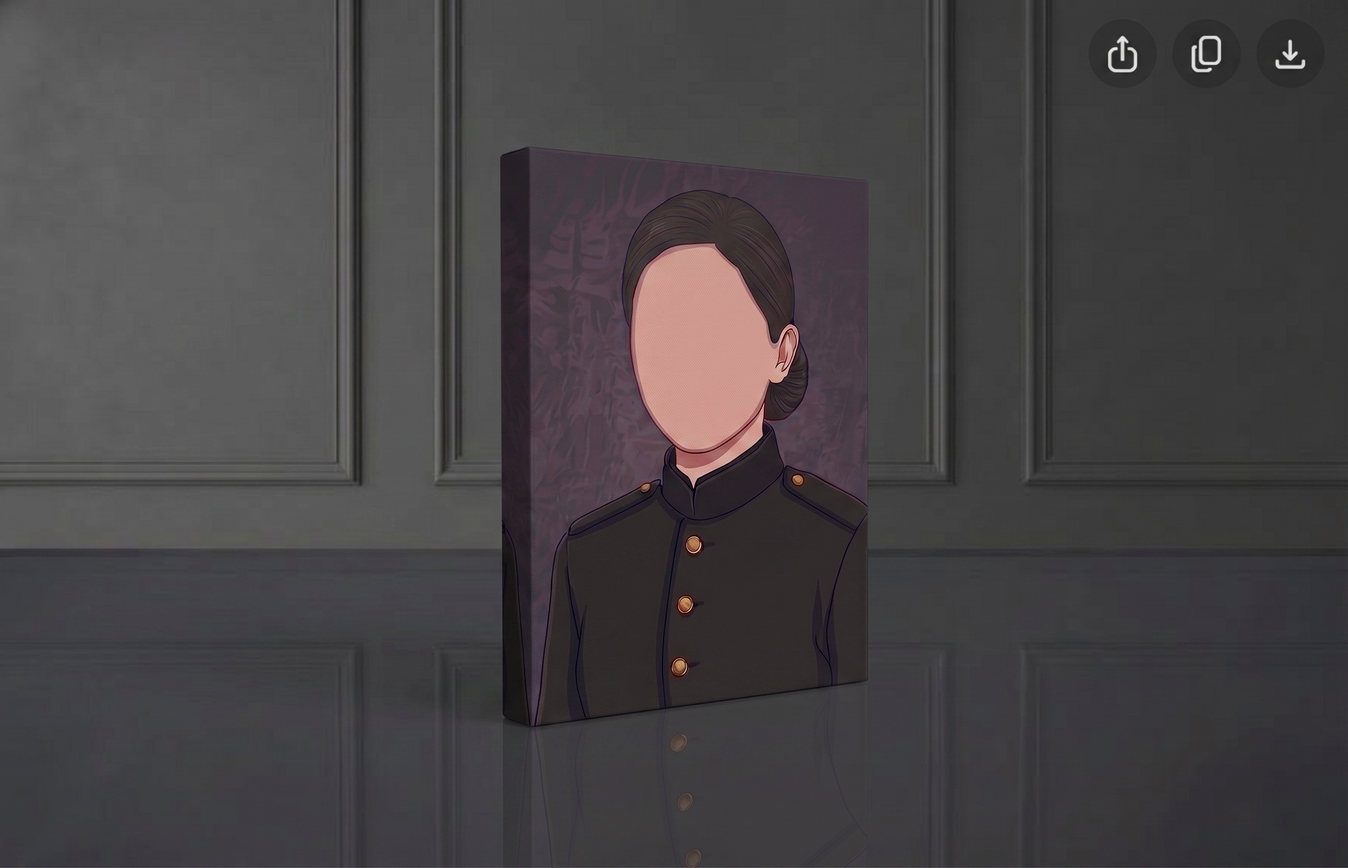
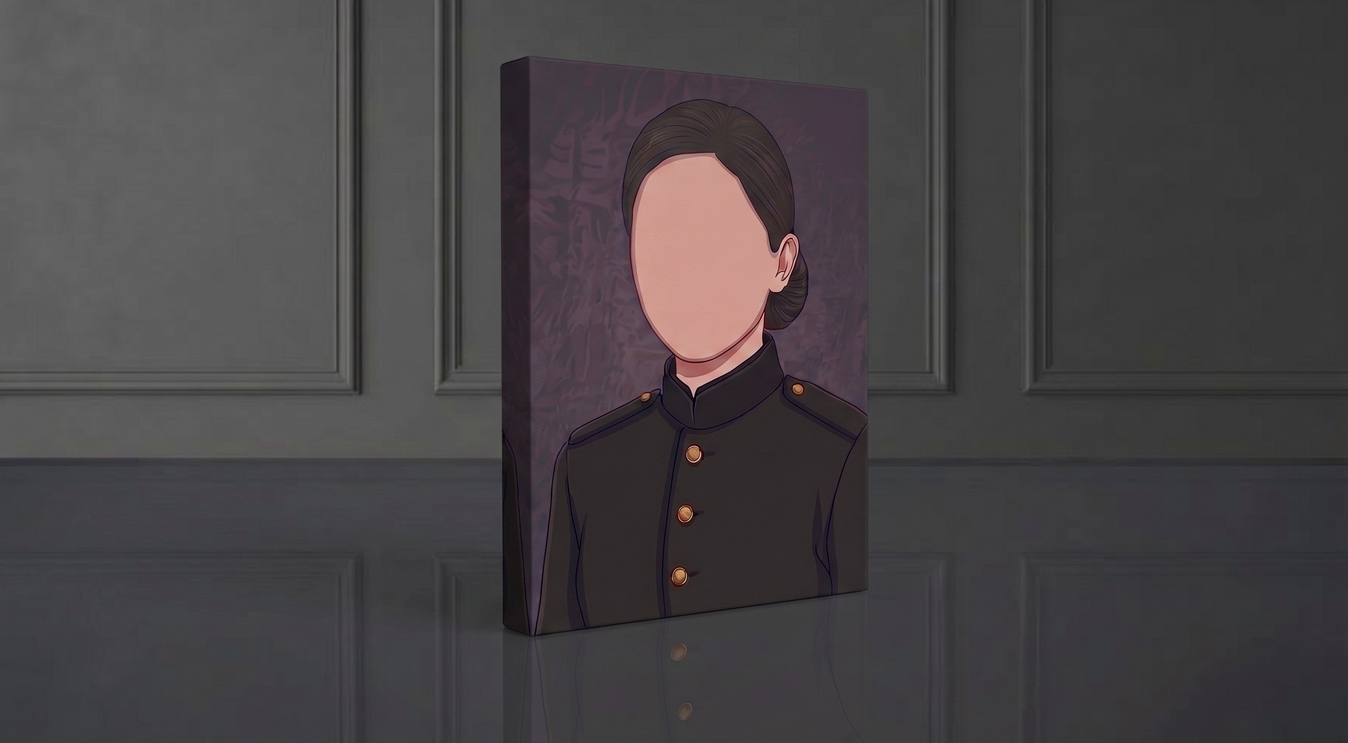
actualizacion 104

diff --git a/recuerdoEscolarSecundario.html b/recuerdoEscolarSecundario.html
@@ -1,5 +1,5 @@
 <!DOCTYPE html>
-<html lang="en">
+<html lang="es">
 <head>
     <meta charset="UTF-8">
     <meta http-equiv="X-UA-Compatible" content="IE=edge">
@@ -10,12 +10,10 @@
     <meta name="author" content="Gabriel Alvarez">
     <meta name="robots" content="index">
     <link href="https://unpkg.com/aos@2.3.1/dist/aos.css" rel="stylesheet">
-    <title>AquilaView</title>
-    <!-- GALERIA -->
+    <title>AquilaView - Recuerdo Escolar</title>
     <link rel="shortcut icon" href="favicon.ico">
-	<link rel="stylesheet" type="text/css" href="fonts/font-awesome-4.3.0/css/font-awesome.min.css" />
-	<link rel="stylesheet" type="text/css" href="css/index.css" />
-	<script src="JavasCript/modernizr-custom.js"></script>
+    <link rel="stylesheet" type="text/css" href="fonts/font-awesome-4.3.0/css/font-awesome.min.css" />
+    <script src="JavasCript/modernizr-custom.js"></script>
 </head>
 <body>
     <main class="main">
@@ -26,7 +24,7 @@
         
         <label for="check" class="icons">
             <span></span>
-            <span></span>	
+            <span></span>   
             <span></span>
         </label>
 
@@ -36,49 +34,36 @@
             <a href="#" style="--i:5">Contacto</a>
         </nav>
     </header>
-    <!-- PORTFOLIO -------------------------------------------------------------------------------------->
-    <div class="containerPortfolio">
-		<div class="presentacionPortfolio">
-			<div class="tituloPortfolio">
-				<h2>Recuerdo Escolar</h2>	
-				<h3>2026</h3>
-				<h4>Oferta Nivel Secundario. </h4>
-				<h4>Como fotógrafo freelance en Buenos Aires, me especializo en retratos y tomas aéreas con dron.</h4>
-				<a href="index.html">
-					<button class="portfolio-btn">
-						<b>Hablemos! </b>
-						<svg xmlns="http://www.w3.org/2000/svg" width="16" height="16" fill="currentColor" class="portfolio-btn-whatsapp" viewBox="0 0 16 16">
-							<path d="M13.601 2.326A7.85 7.85 0 0 0 7.994 0C3.627 0 .068 3.558.064 7.926c0 1.399.366 2.76 1.057 3.965L0 16l4.204-1.102a7.9 7.9 0 0 0 3.79.965h.004c4.368 0 7.926-3.558 7.93-7.93A7.9 7.9 0 0 0 13.6 2.326zM7.994 14.521a6.6 6.6 0 0 1-3.356-.92l-.24-.144-2.494.654.666-2.433-.156-.251a6.56 6.56 0 0 1-1.007-3.505c0-3.626 2.957-6.584 6.591-6.584a6.56 6.56 0 0 1 4.66 1.931 6.56 6.56 0 0 1 1.928 4.66c-.004 3.639-2.961 6.592-6.592 6.592m3.615-4.934c-.197-.099-1.17-.578-1.353-.646-.182-.065-.315-.099-.445.099-.133.197-.513.646-.627.775-.114.133-.232.148-.43.05-.197-.1-.836-.308-1.592-.985-.59-.525-.985-1.175-1.103-1.372-.114-.198-.011-.304.088-.403.087-.088.197-.232.296-.346.1-.114.133-.198.198-.33.065-.134.034-.248-.015-.347-.05-.099-.445-1.076-.612-1.47-.16-.389-.323-.335-.445-.34-.114-.007-.247-.007-.38-.007a.73.73 0 0 0-.529.247c-.182.198-.691.677-.691 1.654s.71 1.916.81 2.049c.098.133 1.394 2.132 3.383 2.992.47.205.84.326 1.129.418.475.152.904.129 1.246.08.38-.058 1.171-.48 1.338-.943.164-.464.164-.86.114-.943-.049-.084-.182-.133-.38-.232"/>
-						</svg>
-					</button>
-					
-				</a>
-			</div>
-		</div>
-		<!-- INDEX PORTFOLIO---------------------------- -->
-		<!-- /content -->
-		<!-- Related demos -->
-	</div>
-	<!-- /container ------------------------------------------------------------------------------------------------------------------------------------->
+    <div class="promo-grid-container">
+        <a href="promo1Secundario.html" class="promo-card">
+            <img src="galeria/recuerdoEscolar/cuadernoSecundarioo.webp" alt="Promoción 1">
+            <div class="promo-card-overlay">
+                <h2>Promoción 1</h2>
+                <p>Cuaderno Recuerdo Escolar</p>
+            </div>
+        </a>
 
+        <a href="promo2Secundario.html" class="promo-card">
+            <img src="galeria/recuerdoEscolar/comboCompletoSecundario.webp" alt="Promoción 2">
+            <div class="promo-card-overlay">
+                <h2>Promoción 2</h2>
+                <p>Cuaderno Recuerdo Escolar + Bastidor</p>
+            </div>
+        </a>
 
+        <a href="promo3Secundario.html" class="promo-card">
+            <img src="galeria/recuerdoEscolar/bastidorSecundario.webp" alt="Promoción 3">
+            <div class="promo-card-overlay">
+                <h2>Promoción 3</h2>
+                <p>Solo Cuadro Bastidor</p>
+            </div>
+        </a>
+    </div>
 
-
-
-
-
-
-
-
-
-
-
-
-	<script src="JavaScript/imagesloaded.pkgd.min.js"></script>
-	<script src="JavaScript/masonry.pkgd.min.js"></script>
-	<script src="JavaScript/classie.js"></script>
-	<script src="JavaScript/main.js"></script>
-	
+    <script src="JavaScript/imagesloaded.pkgd.min.js"></script>
+    <script src="JavaScript/masonry.pkgd.min.js"></script>
+    <script src="JavaScript/classie.js"></script>
+    <script src="JavaScript/main.js"></script>
     </main>
 </body>
 </html>

diff --git a/promo2Secundario.html b/promo2Secundario.html
@@ -1,0 +1,38 @@
+<!DOCTYPE html>
+<html lang="es">
+<head>
+    <meta charset="UTF-8">
+    <meta name="viewport" content="width=device-width, initial-scale=1.0">
+    <title>Promoción 2 - AquilaView</title>
+    <link rel="stylesheet" href="css/index.css">
+</head>
+<body style="background: white;">
+
+    <div class="promo-detail-view">
+        <div class="promo-detail-hero">
+            <!-- Ruta de la imagen del combo de la promo 2 -->
+            <img src="galeria/recuerdoEscolar/comboCompletoSecundario.webp" alt="Promoción 2">
+        </div>
+        
+        <div class="promo-detail-content">
+            <!-- Botón para volver a tu página principal -->
+            <a href="recuerdoEscolarSecundario.html" class="promo-back-btn">← Volver atrás</a>
+            
+            <h1>Promoción 2</h1>
+            <p class="promo-detail-subtitle">Libro Recuerdo Escolar + Bastidor 30 x 20 - <b>$60.000</b></p>
+            
+            <div class="promo-article-text">
+                <p>Incluye:</p>
+                <ul>
+                    <li>Incluye TODO lo de la promoción 1.</li>
+                    <li>+ 1 Cuadro Bastidor de Madera (20 x 30 cm): La foto individual montada en madera rígida, lista para colgar en la pared.</li>
+                    <li>(Si desean el bastidor más grande de 30x40 cm con este combo, el valor total es de <b>$75.000</b>)</li>
+                </ul>
+            </div>
+            <h3>En caso que quieran abonar por transferencia, comunicarse al siguiente número</h3>
+            <a class="numeroWhatsapp" href="https://wa.me/541123338528" target="_blank">Escribeme</a>
+        </div>
+    </div>
+
+</body>
+</html>

diff --git a/promo1Secundario.html b/promo1Secundario.html
@@ -1,0 +1,36 @@
+<!DOCTYPE html>
+<html lang="es">
+<head>
+    <meta charset="UTF-8">
+    <meta name="viewport" content="width=device-width, initial-scale=1.0">
+    <title>Promoción 1 - AquilaView</title>
+    <link rel="stylesheet" href="css/index.css">
+</head>
+<body style="background: white;">
+
+    <div class="promo-detail-view">
+        <div class="promo-detail-hero">
+            <img src="galeria/recuerdoEscolar/cuadernoSecundarioo.webp" alt="Promoción 1">
+        </div>
+        
+        <div class="promo-detail-content">
+            <a href="recuerdoEscolarSecundario.html" class="promo-back-btn">← Volver atrás</a>
+            <h1>Promoción 1</h1>
+            <p class="promo-detail-subtitle">Libro Recuerdo Escolar - <b>$30.000</b></p>
+            
+            <div class="promo-article-text">
+                <p>Incluye:</p>
+                <ul>
+                    <li>Cuaderno Recuerdo Escolar Laminado</li>
+                    <li>2 Fotos tamaño 21 x 30cm en papel fotográfico (1 Grupal de todo el curso + 1 Individual del alumno).</li>
+                    <li>4 Fotos tamaño 4x4 (Ideales para DNI o carnet)</li>
+                    <li>2 Llaveros de acrílico con foto doble faz del alumno</li>
+                </ul>
+            </div>
+            <h3>En caso que quieran abonar por transferencia, comunicarse al siguiente número</h3>
+            <a class="numeroWhatsapp" href="https://wa.me/541123338528" target="_blank">Escribeme</a>
+        </div>
+    </div>
+
+</body>
+</html>

diff --git a/promo3Secundario.html b/promo3Secundario.html
@@ -16,7 +16,7 @@
         
         <div class="promo-detail-content">
             <!-- Botón para volver a tu página principal -->
-            <a href="recuerdoEscolar.html" class="promo-back-btn">← Volver atrás</a>
+            <a href="recuerdoEscolarSecundario.html" class="promo-back-btn">← Volver atrás</a>
             
             <h1>Promoción 3</h1>
             <p class="promo-detail-subtitle">SOLO CUADRO BASTIDOR</p>
